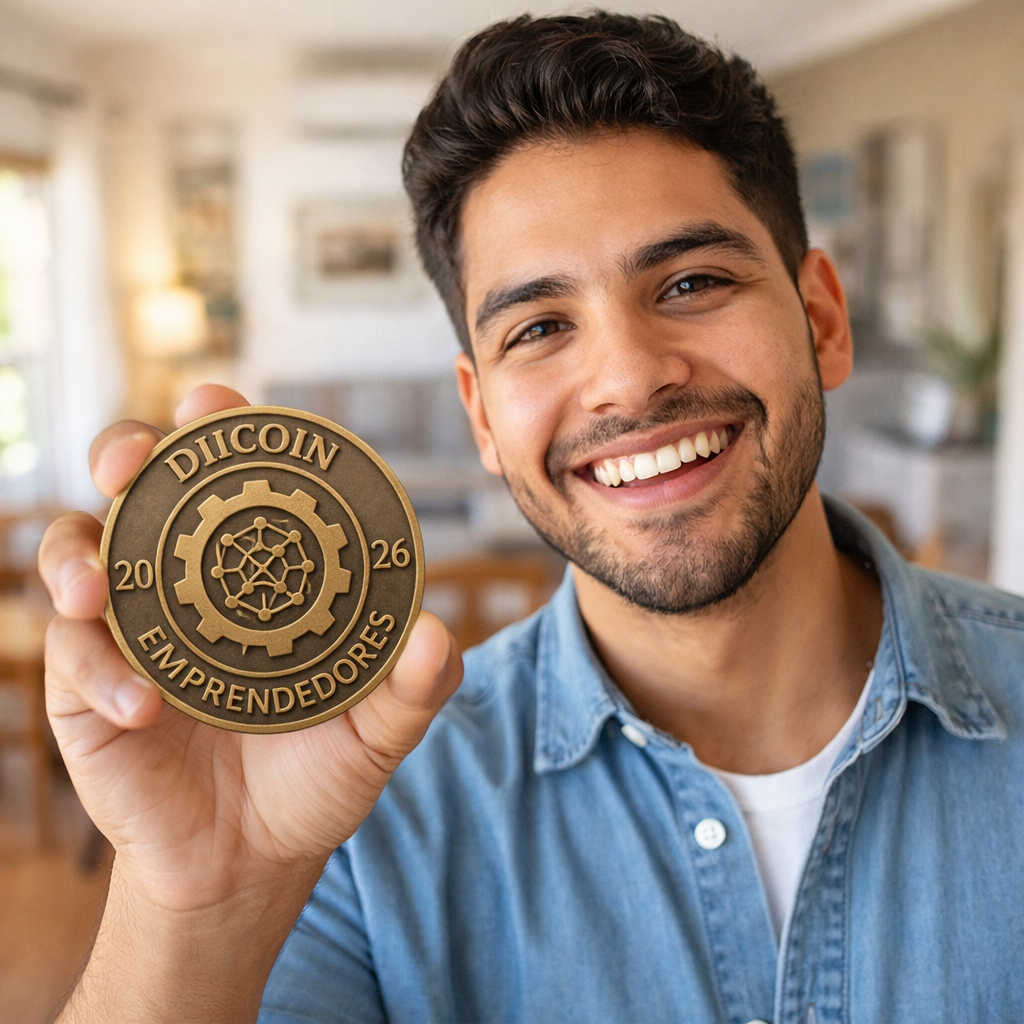
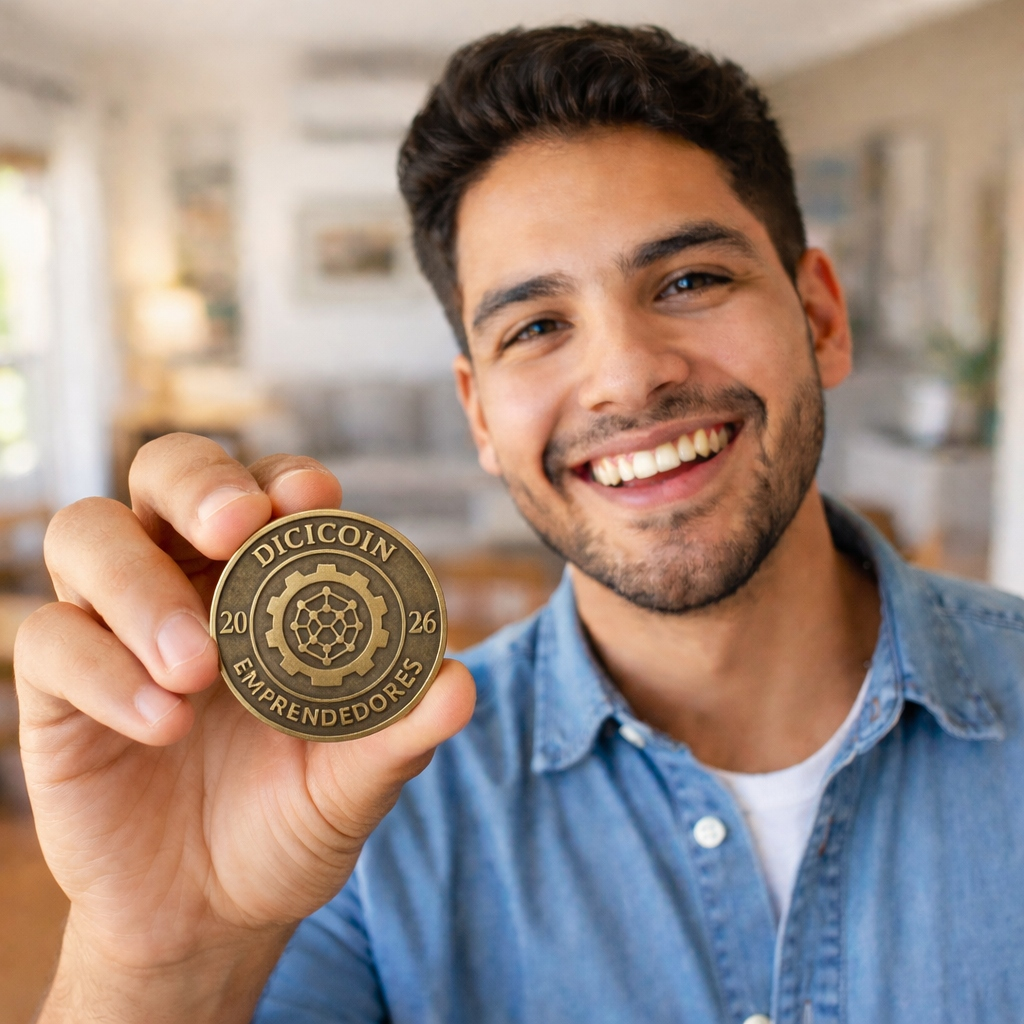
Fix ticket system: correct email domain configuration and robust ticket list sorting. Update dicicoin assets.

diff --git a/src/lib/email.ts b/src/lib/email.ts
@@ -16,7 +16,7 @@ export async function sendWelcomeEmail(email: string, firstName: string) {
 
     try {
         const { data, error } = await resend.emails.send({
-            from: 'Dicilo <onboarding@dicilo.com>',
+            from: 'Dicilo <onboarding@dicilo.net>',
             to: [email],
             subject: 'Willkommen bei Dicilo!',
             html: `
@@ -46,7 +46,7 @@ export async function sendCouponShareEmail(email: string, coupon: any) {
 
     try {
         const { data, error } = await resend.emails.send({
-            from: 'Dicilo <info@dicilo.com>',
+            from: 'Dicilo <info@dicilo.net>',
             to: [email],
             subject: `Holen Sie sich diesen Coupon: ${coupon.title}`,
             html: `
@@ -96,7 +96,7 @@ export async function sendTicketCreatedEmail(email: string, ticketId: string, ti
 
     try {
         const { data, error } = await resend.emails.send({
-            from: 'Dicilo Support <support@dicilo.com>',
+            from: 'Dicilo Support <support@dicilo.net>',
             to: [email],
             subject: `Ticket Received: ${title} (#${ticketId.slice(0, 8)})`,
             html: `
@@ -135,7 +135,7 @@ export async function sendTicketReplyEmail(email: string, ticketId: string, titl
 
     try {
         const { data, error } = await resend.emails.send({
-            from: 'Dicilo Support <support@dicilo.com>',
+            from: 'Dicilo Support <support@dicilo.net>',
             to: [email],
             subject: `Re: ${title} (#${ticketId.slice(0, 8)})`,
             html: `

diff --git a/src/app/actions/tickets.ts b/src/app/actions/tickets.ts
@@ -68,7 +68,6 @@ export async function getUserTickets(uid: string) {
     try {
         const snapshot = await getAdminDb().collection('tickets')
             .where('uid', '==', uid)
-            .orderBy('createdAt', 'desc')
             .get();
 
         const tickets = snapshot.docs.map(doc => ({
@@ -77,7 +76,7 @@ export async function getUserTickets(uid: string) {
             // Serialize timestamps for client
             createdAt: doc.data().createdAt?.toDate().toISOString(),
             updatedAt: doc.data().updatedAt?.toDate().toISOString(),
-        }));
+        })).sort((a: any, b: any) => new Date(b.createdAt).getTime() - new Date(a.createdAt).getTime());
 
         return { success: true, tickets };
     } catch (error: any) {

diff --git a/src/app/dicicoin/page.tsx b/src/app/dicicoin/page.tsx
@@ -46,7 +46,7 @@ export default function DiciCoinPage() {
                     <div className="order-1 flex justify-center">
                         <div className="relative w-full max-w-sm aspect-[4/5] md:aspect-[4/3] shadow-lg rounded-2xl overflow-hidden group">
                             <Image
-                                src="/images/dicicoin/holding.jpg?v=2"
+                                src="/images/dicicoin/holding.jpg?v=3"
                                 alt="Holding DiciCoin"
                                 fill
                                 className="object-cover group-hover:scale-105 transition-transform duration-700"
